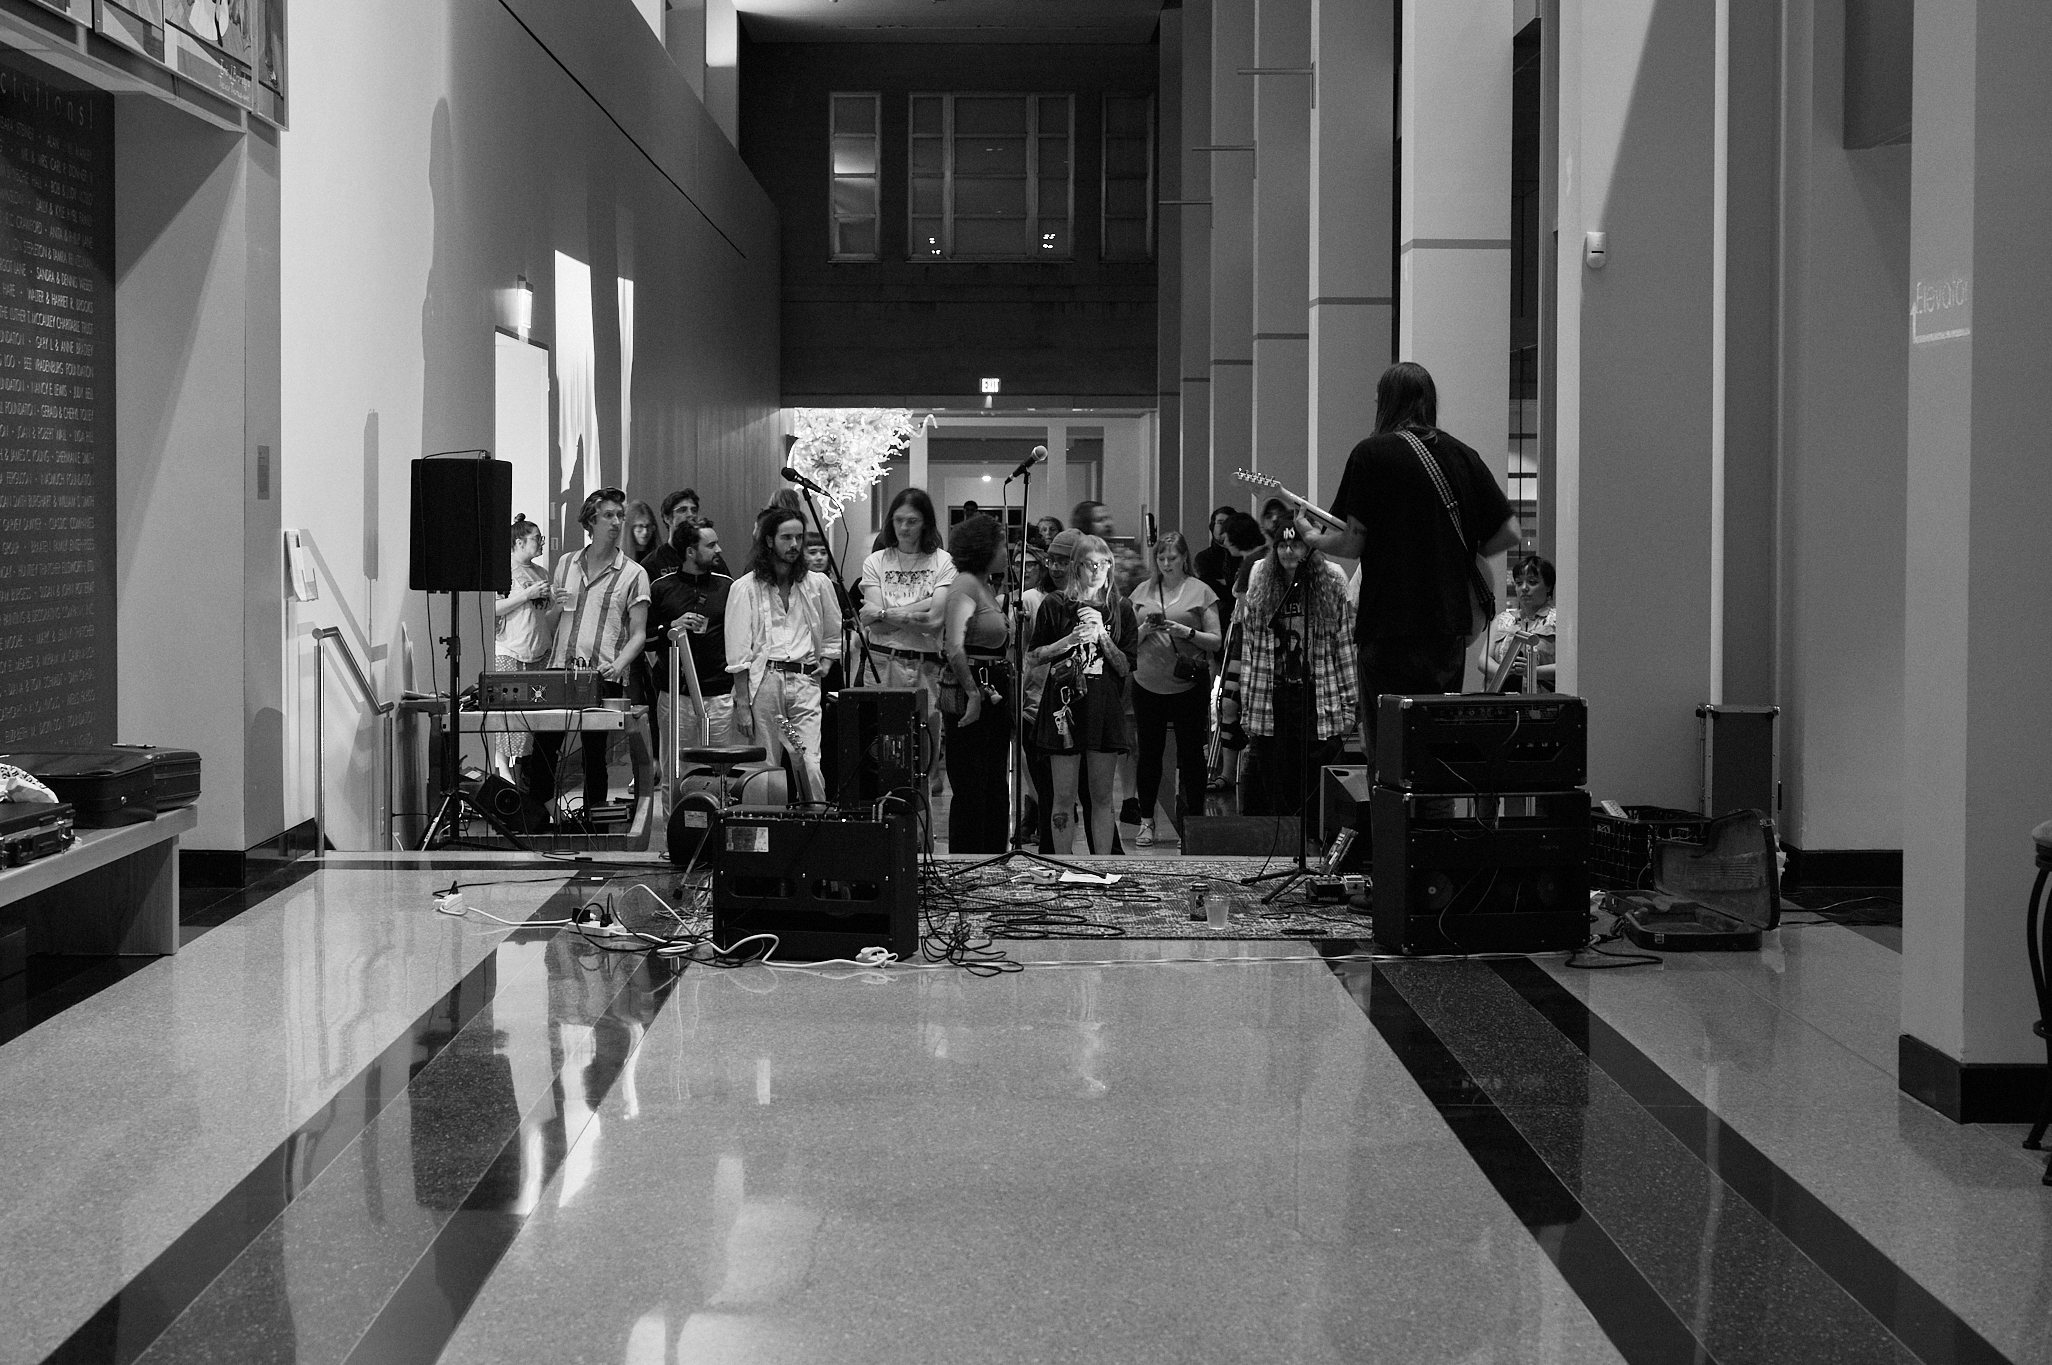
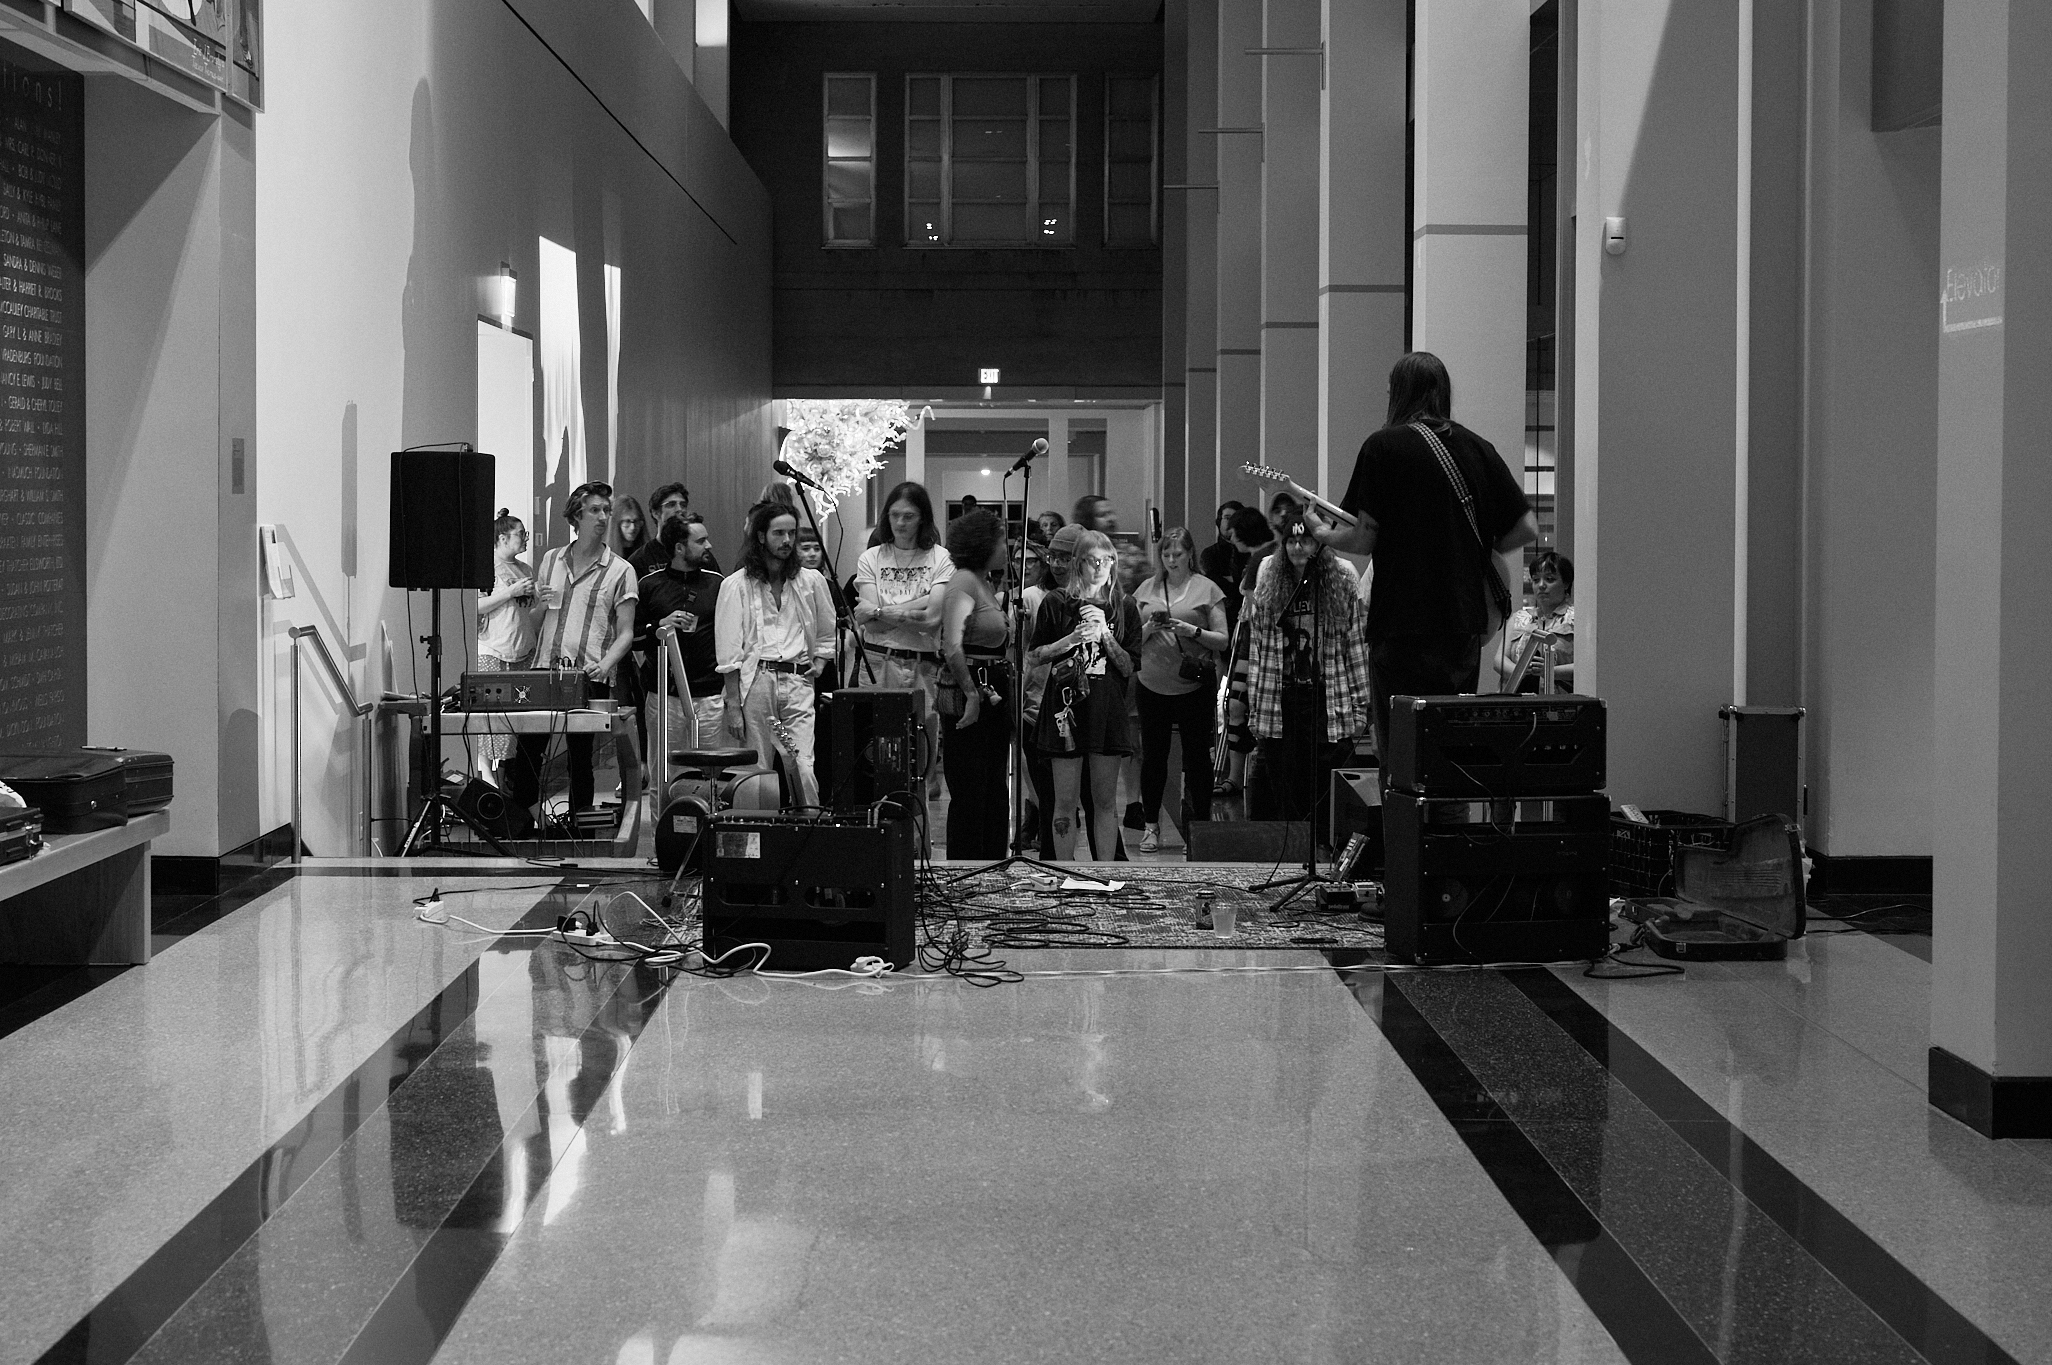
add new posts 2023-community and 2023-gray-duck

diff --git a/input/projects/2023-community.md b/input/projects/2023-community.md
@@ -1,0 +1,65 @@
+---
+title: 'art in community'
+description: 'an aspect of the Art Emerging project featuring people of the arts communities together'
+date: '2023-05-20T18:00:00'
+updated: '2023-07-22T12:00:00'
+tags:
+  - professional
+vignette:
+  src: '20230721-205559-gray-duck-fac.jpg'
+  period: '2023 – present'
+banner:
+  src: '20230721-205559-gray-duck-fac.jpg'
+entry:
+  '
+  As a part of my [Art Emerging](/2023-art/) project, these are scenes of people in Colorado Springs at gatherings, performance spaces, and arts venues building community together.
+  
+  
+  Relationships between people are essential to building a richer and more successful arts community. We need people showing up, supporting artists directly, being generous with their time and resources, sharing their creativity, and being inclusive of new perspectives.
+  '
+photoset:
+  - 
+    - src: '20230715-191034-sound-seance.jpg'
+      style: full
+    - src: '20230715-192351-sound-seance.jpg'
+      style: half
+    - src: '20230715-170941-sound-seance.jpg'
+      style: half
+    - src: '20230517-183018-wendy-mike.jpg'
+      style: left
+    - src: '20230721-211158-gray-duck-fac.jpg'
+      style: full
+    - src: '20230721-213831-gray-duck-fac.jpg'
+      style: half
+    - src: '20230721-205650-gray-duck-fac.jpg'
+      style: half
+    - src: '20230721-223309-gray-duck-fac.jpg'
+      style: right
+    - src: '20230620-183940-matt-true-north.jpg'
+      style: left
+    - src: '20230620-185255-matt-true-north.jpg'
+      style: right
+    - src: '20230705-181338-groovy.jpg'
+      style: half
+    - src: '20230721-182438-groovy.jpg'
+      style: half
+---
+
+{%- from 'macros/generate-photoset.njk' import generate with context -%}
+
+{{ generate(photoset[0]) }}
+
+[Read more about the Art Emerging photography project](/2023-art/).
+
+Subjects featured in this collection:
+
+- [Kreuser Gallery](https://www.kreusergallery.com)
+- [Jasmine Dillavou](https://www.jasminedillavou.com)
+- [Drew Geiger (E J R M)](https://www.instagram.com/ejrmmusic/)
+- [JD Sell](https://www.instagram.com/jdsell/)
+- [Wendy Mike](https://www.wendymike.com)
+- [Gray Duck](https://www.instagram.com/grayduck_cos/) featuring Alex Koshak, Bryan Sespico, and Evan Courtland
+- [Fine Arts Center at Colorado College](https://fac.coloradocollege.edu/)
+- [True North Art Gallery](https://truenorthartgallery.com)
+- [Matt Chmielarczyk](https://www.instagram.com/darthpolski/)
+- [Groovy Print Shop](https://www.groovyprintshop.com)

diff --git a/input/notes/2023-gray-duck.md b/input/notes/2023-gray-duck.md
@@ -1,0 +1,42 @@
+---
+title: 'Gray Duck at the Fine Arts Center'
+description: 'a collaborative modern performance in the historic hub of art in Colorado Springs'
+date: '2023-07-22T14:00:00'
+updated: '2023-07-22T15:10:00'
+tags:
+  - professional
+vignette:
+  src: '20230721-203304-gray-duck-fac.jpg'
+banner:
+  src: '20230721-203304-gray-duck-fac.jpg'
+entry:
+  '
+  A new project by [JD Sell](https://www.instagram.com/jdsell/) and [Gray Duck](https://www.instagram.com/grayduck_cos/) in collaboration with the [Fine Arts Center](https://fac.coloradocollege.edu/) at Colorado College to bring music to the main hall of the art museum. The show featured Alex Koshak, Bryan Sespico, and Evan Courtland.
+  '
+photoset:
+  - 
+    - src: '20230721-211158-gray-duck-fac.jpg'
+      style: full
+    - src: '20230721-213831-gray-duck-fac.jpg'
+      style: half
+    - src: '20230721-205805-gray-duck-fac.jpg'
+      style: half
+    - src: '20230721-214323-gray-duck-fac.jpg'
+      style: left
+    - src: '20230721-223157-gray-duck-fac.jpg'
+      style: right
+    - src: '20230721-203304-gray-duck-fac.jpg'
+      style: left
+    - src: '20230721-223309-gray-duck-fac.jpg'
+      style: right
+    - src: '20230721-205559-gray-duck-fac.jpg'
+      style: full
+    - src: '20230721-215620-gray-duck-fac.jpg'
+      style: center
+    - src: '20230721-224540-gray-duck-fac.jpg'
+      style: full
+---
+
+{%- from 'macros/generate-photoset.njk' import generate with context -%}
+
+{{ generate(photoset[0]) }}

diff --git a/input/notes/2023-sound-seance.md b/input/notes/2023-sound-seance.md
@@ -1,6 +1,6 @@
 ---
 title: 'Sound Séance'
-description: 'documentary work from a live performance'
+description: 'documentary work from a live experimental performance'
 date: '2023-07-16T17:00:00'
 updated: '2023-07-17T17:56:07'
 tags:

diff --git a/input/images/20230620-185255-matt-true-north.md b/input/images/20230620-185255-matt-true-north.md
@@ -1,0 +1,7 @@
+---
+date: '2023-06-20T18:52:55'
+src: '20230620-185255-matt-true-north.jpg'
+alt: 'Matt Chmielarczyk presenting a photo book at True North Gallery, focus on hands, monochrome'
+aspect: '3:2'
+
+---

diff --git a/input/images/20230620-183940-matt-true-north.md b/input/images/20230620-183940-matt-true-north.md
@@ -1,0 +1,7 @@
+---
+date: '2023-06-20T18:39:40'
+src: '20230620-183940-matt-true-north.jpg'
+alt: 'Matt Chmielarczyk presenting a photo book at True North Gallery in Colorado Springs'
+aspect: '3:2'
+
+---

diff --git a/input/images/20230715-191034-sound-seance.md b/input/images/20230715-191034-sound-seance.md
@@ -1,0 +1,7 @@
+---
+date: '2023-07-15T19:10:34'
+src: '20230715-191034-sound-seance.jpg'
+alt: 'Jasmine Dillavou performing at Kreuser Gallery at a live event, Sound Seance'
+aspect: '3:2'
+
+---

diff --git a/input/images/20230721-205650-gray-duck-fac.md b/input/images/20230721-205650-gray-duck-fac.md
@@ -1,0 +1,7 @@
+---
+date: '2023-07-21T20:56:50'
+src: '20230721-205650-gray-duck-fac.jpg'
+alt: 'two people sillhouetted by the light of a projector, at Fine Arts Center'
+aspect: '3:2'
+
+---

diff --git a/input/images/20230517-183018-wendy-mike.md b/input/images/20230517-183018-wendy-mike.md
@@ -1,0 +1,7 @@
+---
+date: '2023-05-17T18:30:18'
+src: '20230517-183018-wendy-mike.jpg'
+alt: 'artist Wendy Mike presenting her work at an artist talk at Kreuser Gallery'
+aspect: '3:2'
+
+---

diff --git a/input/images/20230705-181338-groovy.md b/input/images/20230705-181338-groovy.md
@@ -1,0 +1,7 @@
+---
+date: '2023-07-05T18:13:38'
+src: '20230705-181338-groovy.jpg'
+alt: 'Jamie Harper of Groovy Print Shop talking to collaborators in an art gallery'
+aspect: '3:2'
+
+---

diff --git a/input/images/20230721-182438-groovy.md b/input/images/20230721-182438-groovy.md
@@ -1,0 +1,7 @@
+---
+date: '2023-07-21T18:24:38'
+src: '20230721-182438-groovy.jpg'
+alt: 'people gathering outside Groovy Print Shop near Colorado Avenue'
+aspect: '3:2'
+
+---
